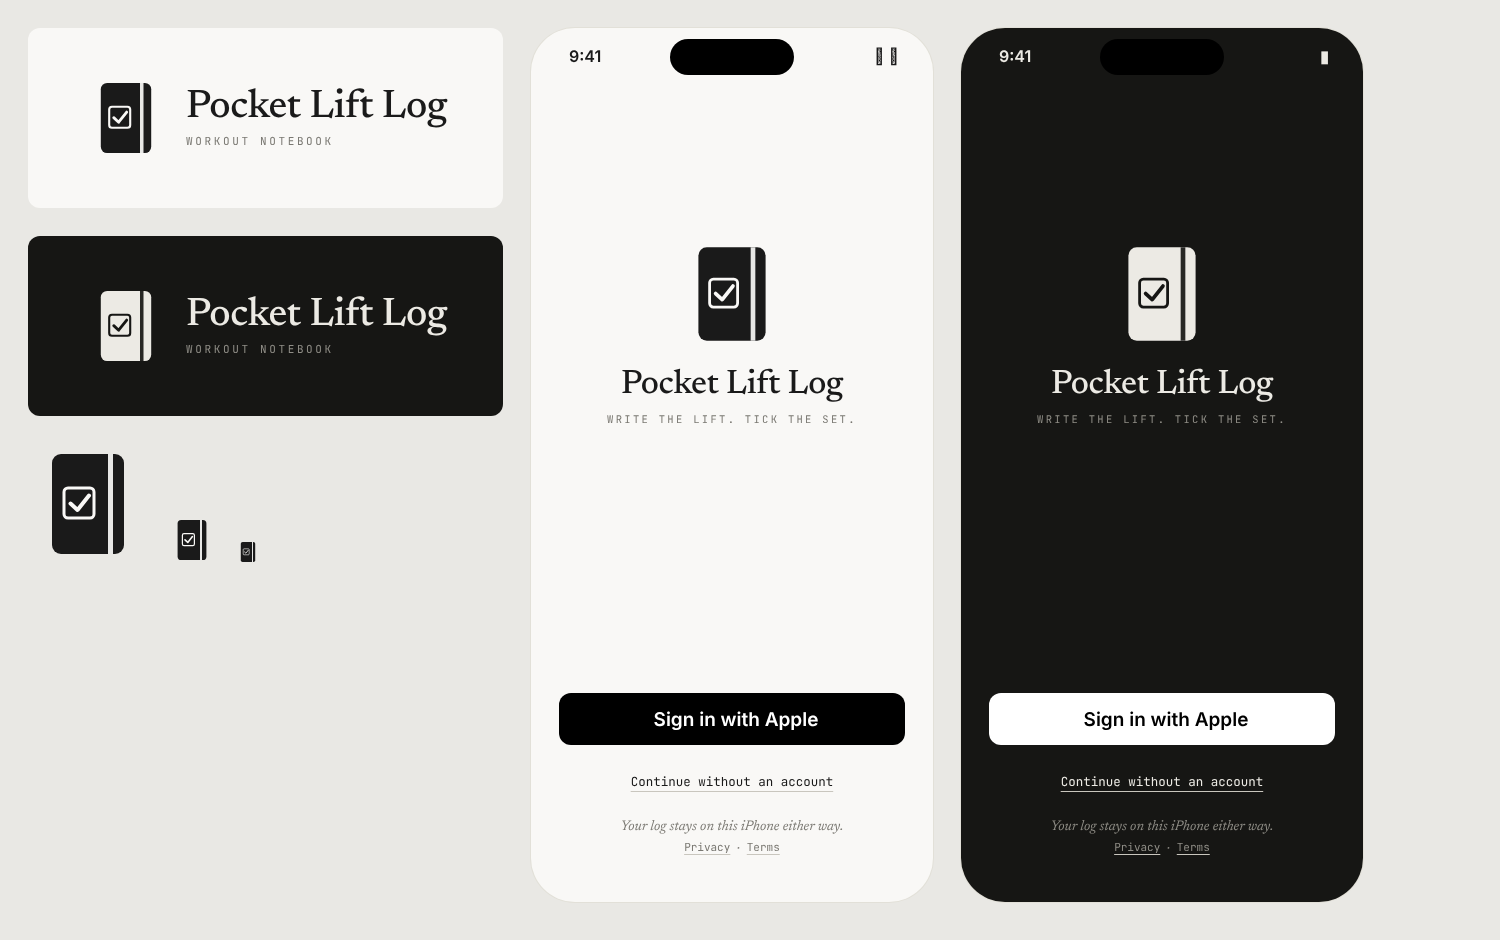
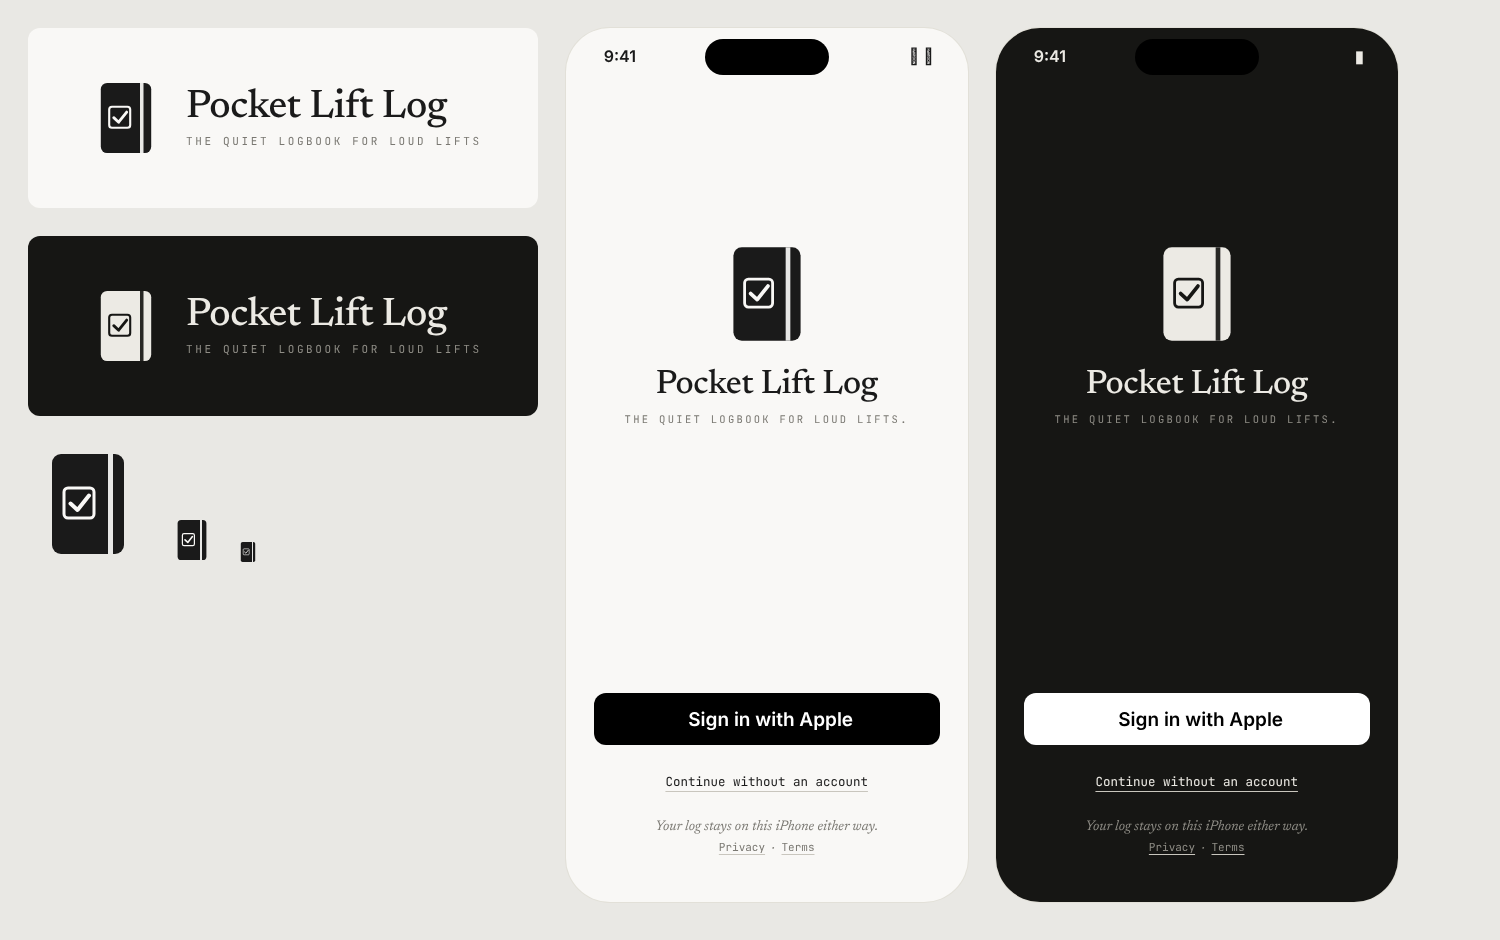
Use the slogan "The quiet logbook for loud lifts."
On the iPhone sign-in screen, in App info (iPhone and web) and in the brand preview.

Claude-Session: https://claude.ai/code/session_01JboCQPo6MnYJ1EYLFU4ahA

diff --git a/ios/PocketLiftLog/Menu.swift b/ios/PocketLiftLog/Menu.swift
@@ -168,8 +168,9 @@ struct MenuPanel: View {
             LogoMark(ink: pal.ink, paper: pal.paper).frame(width: 64, height: 64).padding(.top, 18).padding(.leading, -8)
             Text("Pocket Lift Log").font(.serif(28, medium: true)).foregroundStyle(pal.ink).padding(.top, 6)
             Text("Version \(version)").font(.mono(11)).foregroundStyle(pal.slate).padding(.top, 2)
+            Text("The quiet logbook for loud lifts.").font(.serif(17, italic: true)).foregroundStyle(pal.ink).padding(.top, 10)
             Text("A bullet-journal workout log. Write the lift, tick the set, rest, repeat. Everything stays on your iPhone and works offline.")
-                .font(.serif(15.5)).foregroundStyle(pal.ink).padding(.top, 10).padding(.bottom, 8)
+                .font(.serif(15.5)).foregroundStyle(pal.ink).padding(.top, 6).padding(.bottom, 8)
             row(.privacy, "Privacy Policy")
             row(.terms, "Terms & Conditions")
         }

diff --git a/workout-log.html b/workout-log.html
@@ -1078,6 +1078,7 @@ input:focus, input:focus-visible { outline: none; }
       `<button type="button" class="danger" data-erase>Erase this device's log</button></div>` },
     info: { title: 'App info', html: () => `<div class="doc">` +
       `<p class="app-name">Pocket Lift Log</p><p class="stamp">Version 2.1 · November 2026</p>` +
+      `<p><em>The quiet logbook for loud lifts.</em></p>` +
       `<p>A bullet-journal workout log. Write the lift, tick the set, rest, repeat. Everything stays on your device and works offline.</p></div>` +
       `<nav class="dr-list">` + item('privacy', 'Privacy Policy') + item('terms', 'Terms &amp; Conditions') + `</nav>` },
     privacy: { title: 'Privacy', html: () => `<div class="doc">` +

diff --git a/ios/PocketLiftLog/SignIn.swift b/ios/PocketLiftLog/SignIn.swift
@@ -43,7 +43,7 @@ struct SignInView: View {
             Text("Pocket Lift Log")
                 .font(.serif(34, medium: true)).foregroundStyle(pal.ink)
                 .padding(.top, 18)
-            Text("WRITE THE LIFT. TICK THE SET.")
+            Text("THE QUIET LOGBOOK FOR LOUD LIFTS.")
                 .font(.mono(10.5)).tracking(2.3).foregroundStyle(pal.slate)
                 .padding(.top, 10)
             Spacer()

diff --git a/brand/README.md b/brand/README.md
@@ -5,4 +5,5 @@
 - `brand-preview.png` – lockups and the sign-in screen in day and night.
 
 Colours: paper #F9F8F6, ink #1A1A1A, slate #7A7872 (night: #161614 / #ECEAE4 / #8F8D86).
+Slogan: "The quiet logbook for loud lifts."
 Type: Newsreader Medium for the name, JetBrains Mono for small caps lines.
